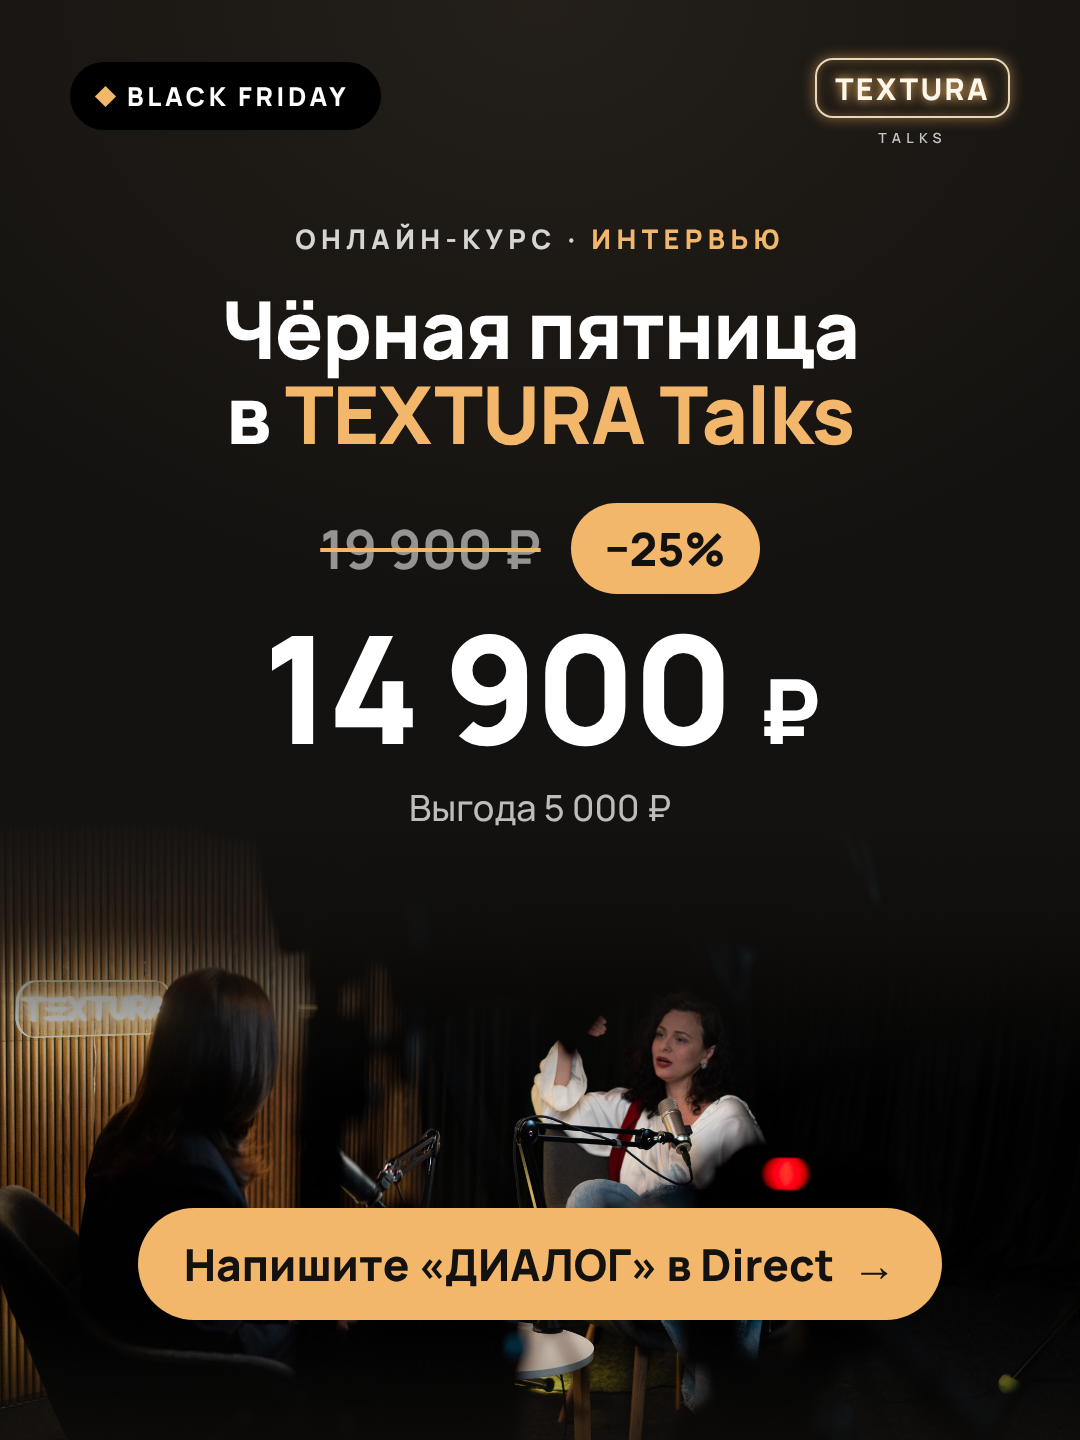
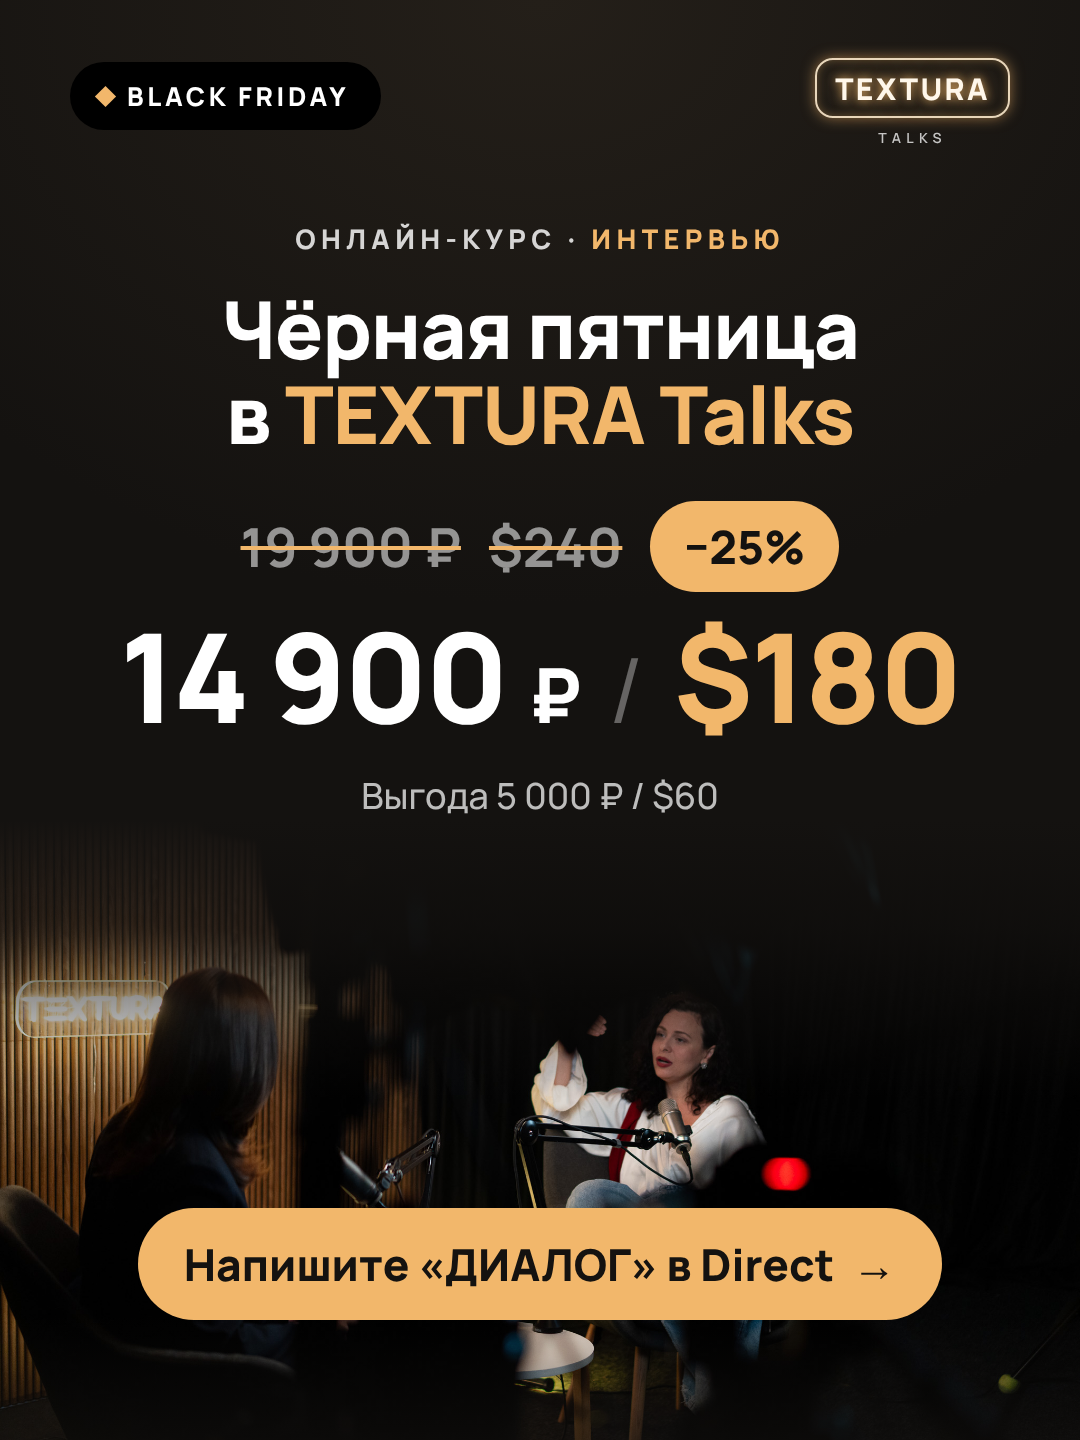
Black Friday post: add USD prices
Claude-Session: https://claude.ai/code/session_01EUhV7va23MNh7ydDpeuyX7

Changed region(s): [[0.1222, 0.3438, 0.8861, 0.5938]]

diff --git a/textura-carousel/blackfriday.html b/textura-carousel/blackfriday.html
@@ -112,11 +112,14 @@
   <div class="content" style="padding-top:220px; text-align:center;">
     <div class="kicker">Онлайн-курс · <span>интервью</span></div>
     <h1 style="margin-top:30px;">Чёрная пятница<br>в <span class="hl">TEXTURA Talks</span></h1>
-    <div style="margin-top:46px; display:flex; align-items:center; justify-content:center; gap:30px;">
-      <span class="price-old">19 900 ₽</span><span class="off">−25%</span>
+    <div style="margin-top:44px; display:flex; align-items:center; justify-content:center; gap:28px;">
+      <span class="price-old">19 900 ₽</span><span class="price-old">$240</span><span class="off">−25%</span>
     </div>
-    <div class="price-new" style="margin-top:18px;">14 900 <small>₽</small></div>
-    <p class="lead" style="margin-top:22px;">Выгода 5 000 ₽</p>
+    <div style="margin-top:22px; display:flex; align-items:baseline; justify-content:center; gap:30px;">
+      <span class="price-new" style="font-size:124px;">14 900 <small style="font-size:76px;">₽</small></span><span style="font-size:90px; font-weight:400; color:rgba(255,255,255,.35);">/</span>
+      <span class="price-new" style="font-size:124px; color:var(--accent);">$180</span>
+    </div>
+    <p class="lead" style="margin-top:22px;">Выгода 5 000 ₽ / $60</p>
   </div>
   <div style="position:absolute; left:0; right:0; bottom:120px; z-index:3; text-align:center;">
     <div class="cta-pill">Напишите «ДИАЛОГ» в Direct <span>→</span></div>
